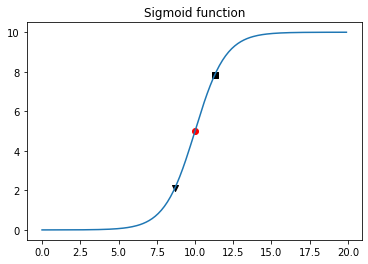
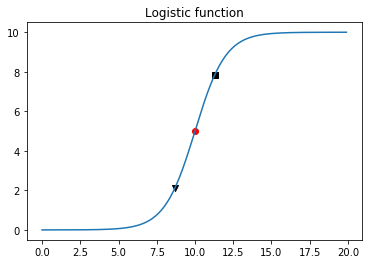
Changed sigmoid for logistic

Changed region(s): [[0.3886, 0.0303, 0.6875, 0.0909]]

diff --git a/docs/logistic_growth.md b/docs/logistic_growth.md
@@ -26,14 +26,14 @@ L = 10
 x0 = 10
 k = 1
 x = sympy.symbols('x')
-sigmoid_expr = L / (1+sympy.exp(-k*(x-x0)))
+logistic_expr = L / (1 + sympy.exp(-k*(x-x0)))
 
 ```
 
 
 ```python
 # Convert symbolic expression of sigmoid function to lambda function
-f_sigmoid = sympy.lambdify(x, sigmoid_expr, 'numpy')
+f_logistic = sympy.lambdify(x, logistic_expr, 'numpy')
 
 ```
 
@@ -44,11 +44,11 @@ lower_xlim = 0
 upper_xlim = 20
 step = 0.1
 xvec = np.arange(lower_xlim,upper_xlim, step)
-yvec = f_sigmoid(xvec)
+yvec = f_logistic(xvec)
 
 plt.figure()
 plt.plot(xvec,yvec)
-plt.title('Sigmoid function')
+plt.title('Logistic function')
 plt.show()
 
 ```
@@ -60,8 +60,8 @@ plt.show()
 
 ```python
 # Compute symbolic expression for first derivative of sigmoid function
-sigmoid_expr_prime = sympy.diff(sigmoid_expr, x, 1)
-print(sigmoid_expr_prime)
+logistic_expr_prime = sympy.diff(logistic_expr, x, 1)
+print(logistic_expr_prime)
 
 ```
 
@@ -71,18 +71,18 @@ print(sigmoid_expr_prime)
 
 ```python
 # Convert symbolic expression of sigmoid first derivative to lambda function
-f_sigmoid_prime = sympy.lambdify(x, sigmoid_expr_prime, 'numpy')
+f_logistic_prime = sympy.lambdify(x, logistic_expr_prime, 'numpy')
 
 ```
 
 
 ```python
 # Plot graph of first derivative of sigmoid function
-yvec_prime = f_sigmoid_prime(xvec)
+yvec_prime = f_logistic_prime(xvec)
 
 plt.figure()
 plt.plot(xvec,yvec_prime)
-plt.title('First derivative of sigmoid function')
+plt.title('First derivative of logistic function')
 plt.show()
 
 ```
@@ -94,8 +94,8 @@ plt.show()
 
 ```python
 # Compute second derivative of sigmoid function
-sigmoid_expr_twoprime = sympy.diff(sigmoid_expr, x, 2)
-print(sigmoid_expr_twoprime)
+logistic_expr_twoprime = sympy.diff(logistic_expr, x, 2)
+print(logistic_expr_twoprime)
 
 ```
 
@@ -105,19 +105,19 @@ print(sigmoid_expr_twoprime)
 
 ```python
 # Convert symbolic expression of sigmoid second derivative to lambda function
-f_sigmoid_twoprime = sympy.lambdify(x, sigmoid_expr_twoprime, 'numpy')
+f_logistic_twoprime = sympy.lambdify(x, logistic_expr_twoprime, 'numpy')
 
 ```
 
 
 ```python
-# Plot graph of second derivative of sigmoid function
+# Plot graph of second derivative of logistic function
 
-yvec_twoprime = f_sigmoid_twoprime(xvec)
+yvec_twoprime = f_logistic_twoprime(xvec)
 
 plt.figure()
 plt.plot(xvec,yvec_twoprime)
-plt.title('Second derivative of sigmoid function')
+plt.title('Second derivative of logistic function')
 plt.show()
 
 ```
@@ -147,13 +147,13 @@ y_highest_accel_neg = yvec[idx_highest_accel_neg]
 
 
 ```python
-# Plot sigmoid function with metrics
+# Plot logistic function with metrics
 plt.figure()
 plt.plot(xvec,yvec)
 plt.scatter(x_highest_slope, y_highest_slope, marker='o', color='r')
 plt.scatter(x_highest_accel_pos, y_highest_accel_pos, marker='v', color='k')
 plt.scatter(x_highest_accel_neg, y_highest_accel_neg, marker='s', color='k')
-plt.title('Sigmoid function')
+plt.title('Logistic function')
 plt.show()
 
 ```
